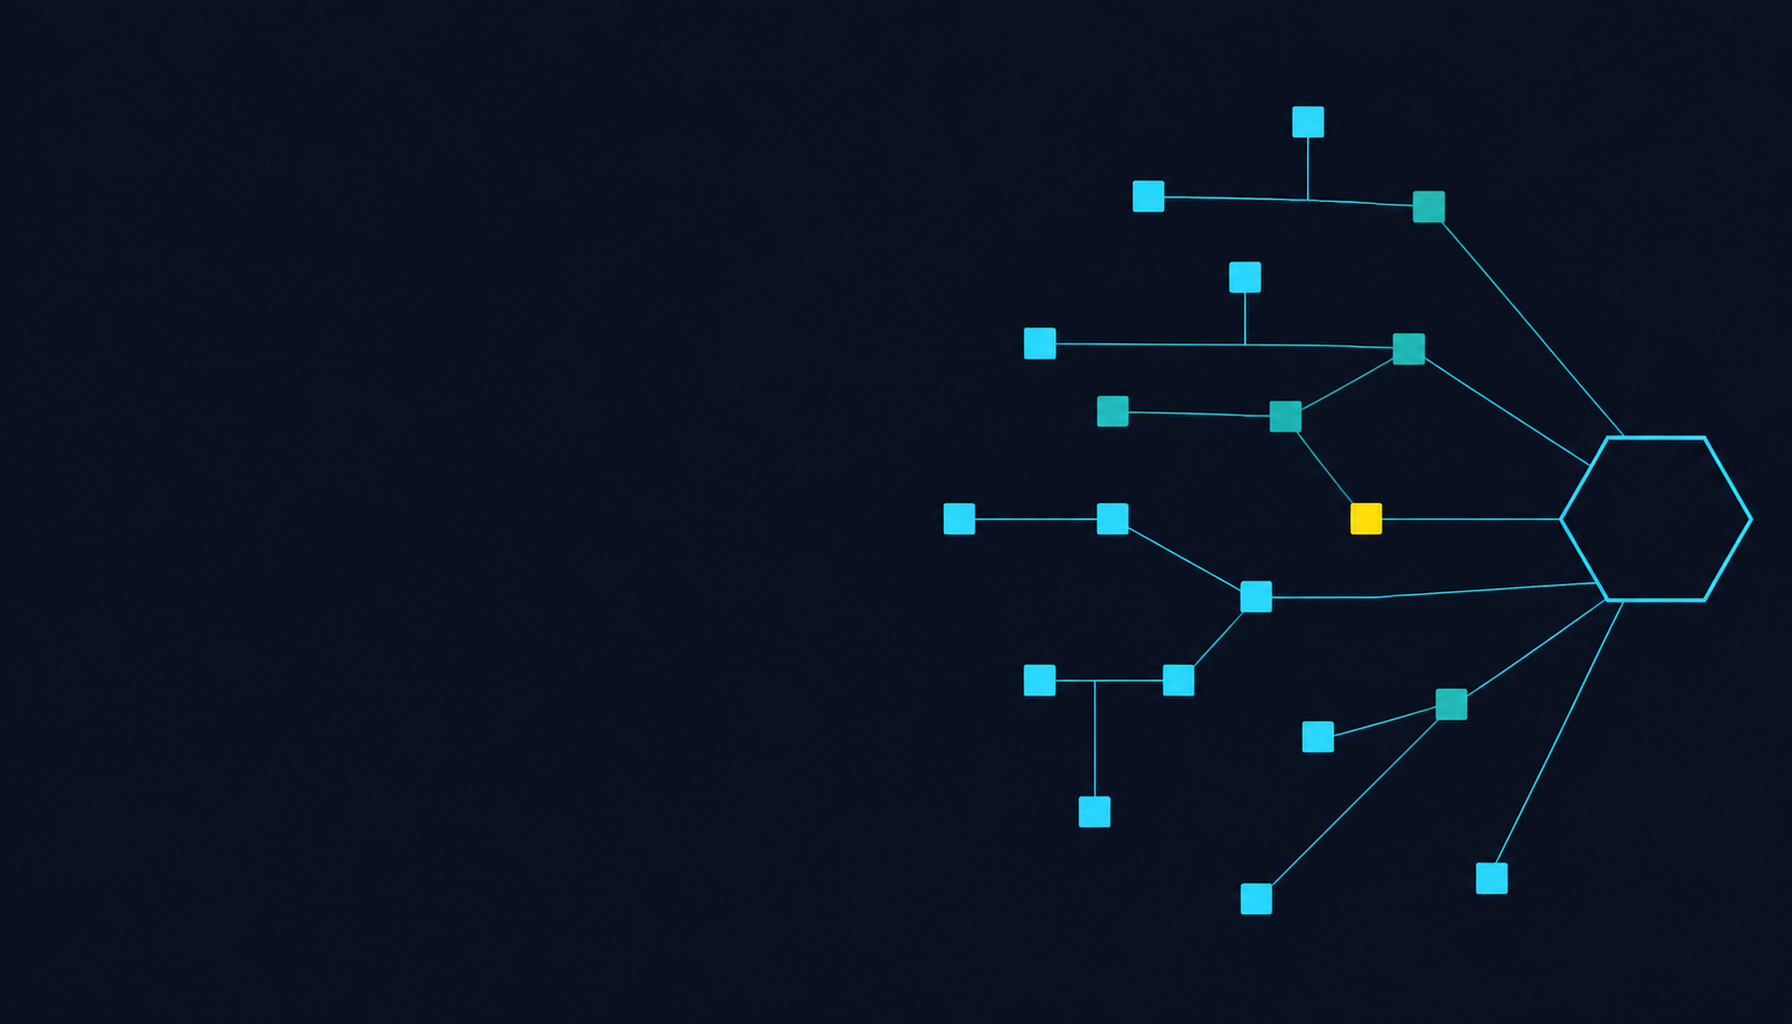
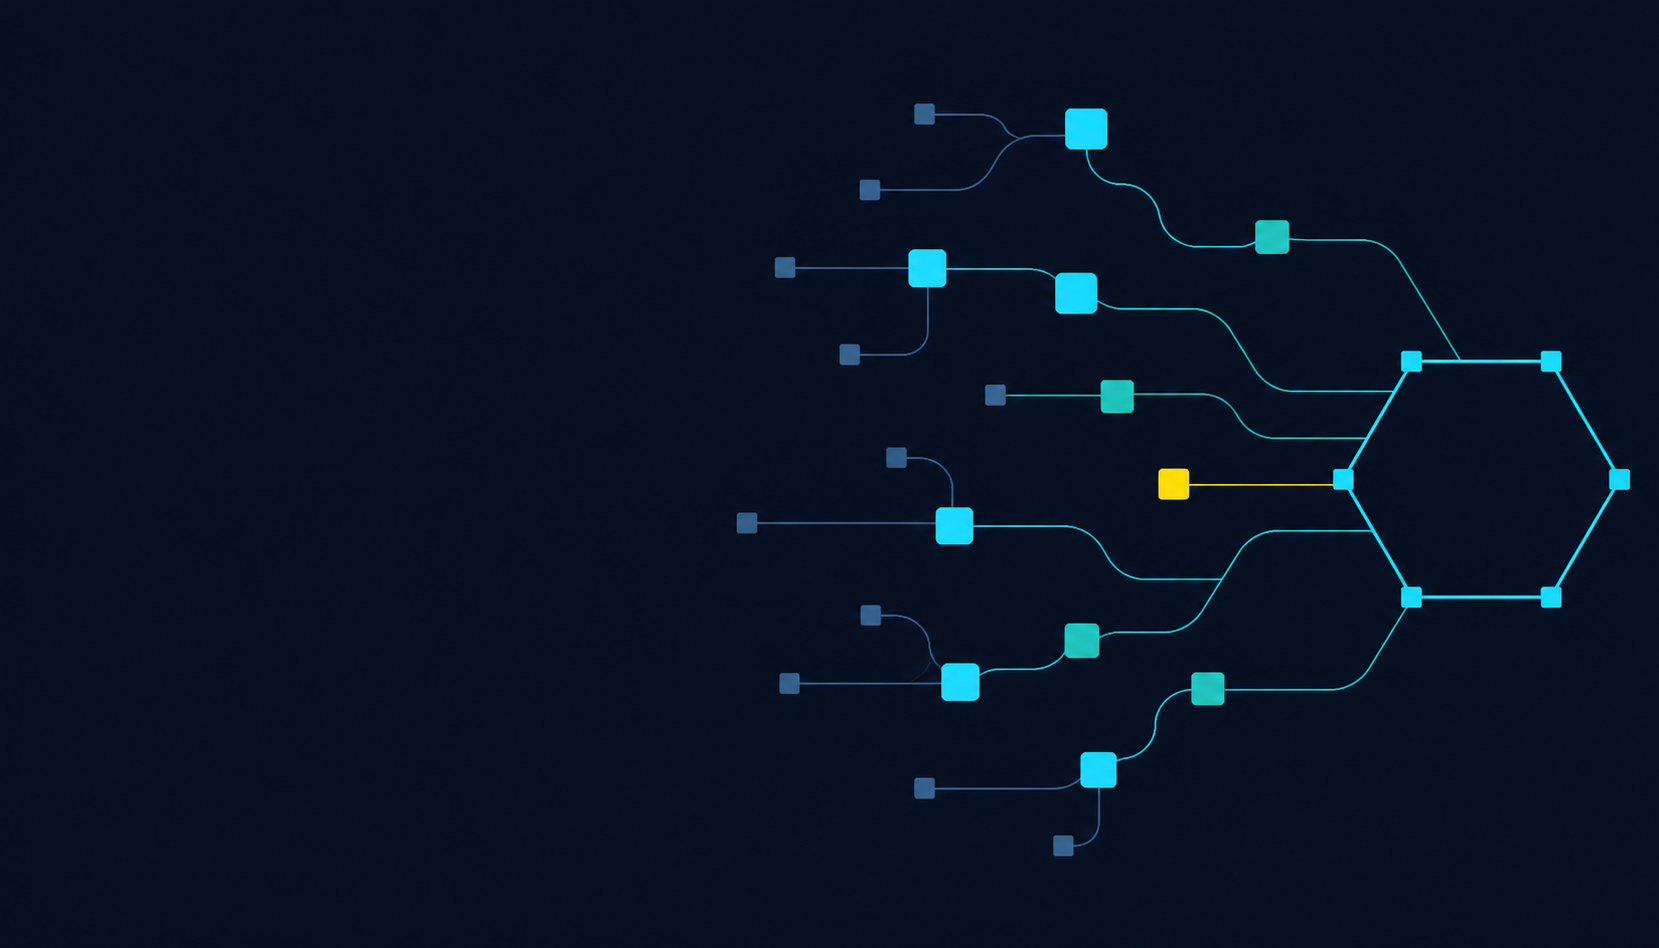
docs: refined devpost thumbnail
Claude-Session: https://claude.ai/code/session_01AfeggrhBqzmN8guag9N5jj

diff --git a/docs/assets/devpost-thumbnail.html b/docs/assets/devpost-thumbnail.html
@@ -4,15 +4,15 @@
 <link rel="stylesheet" href="http://localhost:8780/shared/brand/tokens.css">
 <style>
   html, body { margin: 0; background: #0B1320; }
-  .card { position: relative; width: 1800px; height: 1200px; overflow: hidden; background: #0B1320 url("ART_URL") right center / cover no-repeat; font-family: var(--font-ui, Inter, sans-serif); color: #F2F6FF; }
-  .card::before { content: ""; position: absolute; inset: 0; background: linear-gradient(90deg, #0B1320 0%, #0B1320 34%, rgba(11,19,32,0.55) 52%, rgba(11,19,32,0) 66%); }
+  .card { position: relative; width: 1800px; height: 1200px; overflow: hidden; background: #0B1320 url("ART_URL") right -70px center / auto 106% no-repeat; font-family: var(--font-ui, Inter, sans-serif); color: #F2F6FF; }
+  .card::before { content: ""; position: absolute; inset: 0; background: linear-gradient(90deg, #0B1320 0%, #0B1320 40%, rgba(11,19,32,0.6) 54%, rgba(11,19,32,0) 66%); }
   .copy { position: absolute; left: 120px; top: 50%; transform: translateY(-52%); width: 900px; }
   .word { width: 640px; color: #F2F6FF; }
   .word svg { width: 100%; height: auto; display: block; }
   .tag { margin: 34px 0 0 6px; font-family: var(--font-mono, "JetBrains Mono", monospace); font-size: 40px; letter-spacing: 0.01em; color: #00E5FF; }
   .thesis { margin: 64px 0 0 6px; font-size: 44px; line-height: 1.25; font-weight: 600; }
   .thesis .t { color: #15C4B4; } .thesis .v { color: #00E5FF; } .thesis .a { color: #FFCA2E; }
-  .foot { position: absolute; left: 126px; bottom: 84px; font-family: var(--font-mono, monospace); font-size: 26px; color: #9FB0CC; letter-spacing: 0.02em; }
+  .foot { position: absolute; left: 126px; bottom: 84px; font-family: var(--font-mono, monospace); font-size: 26px; color: #B8C6DC; letter-spacing: 0.02em; }
   .mark { position: absolute; right: 96px; bottom: 76px; width: 84px; height: 84px; opacity: 0.95; }
 </style>
 <div class="card">
